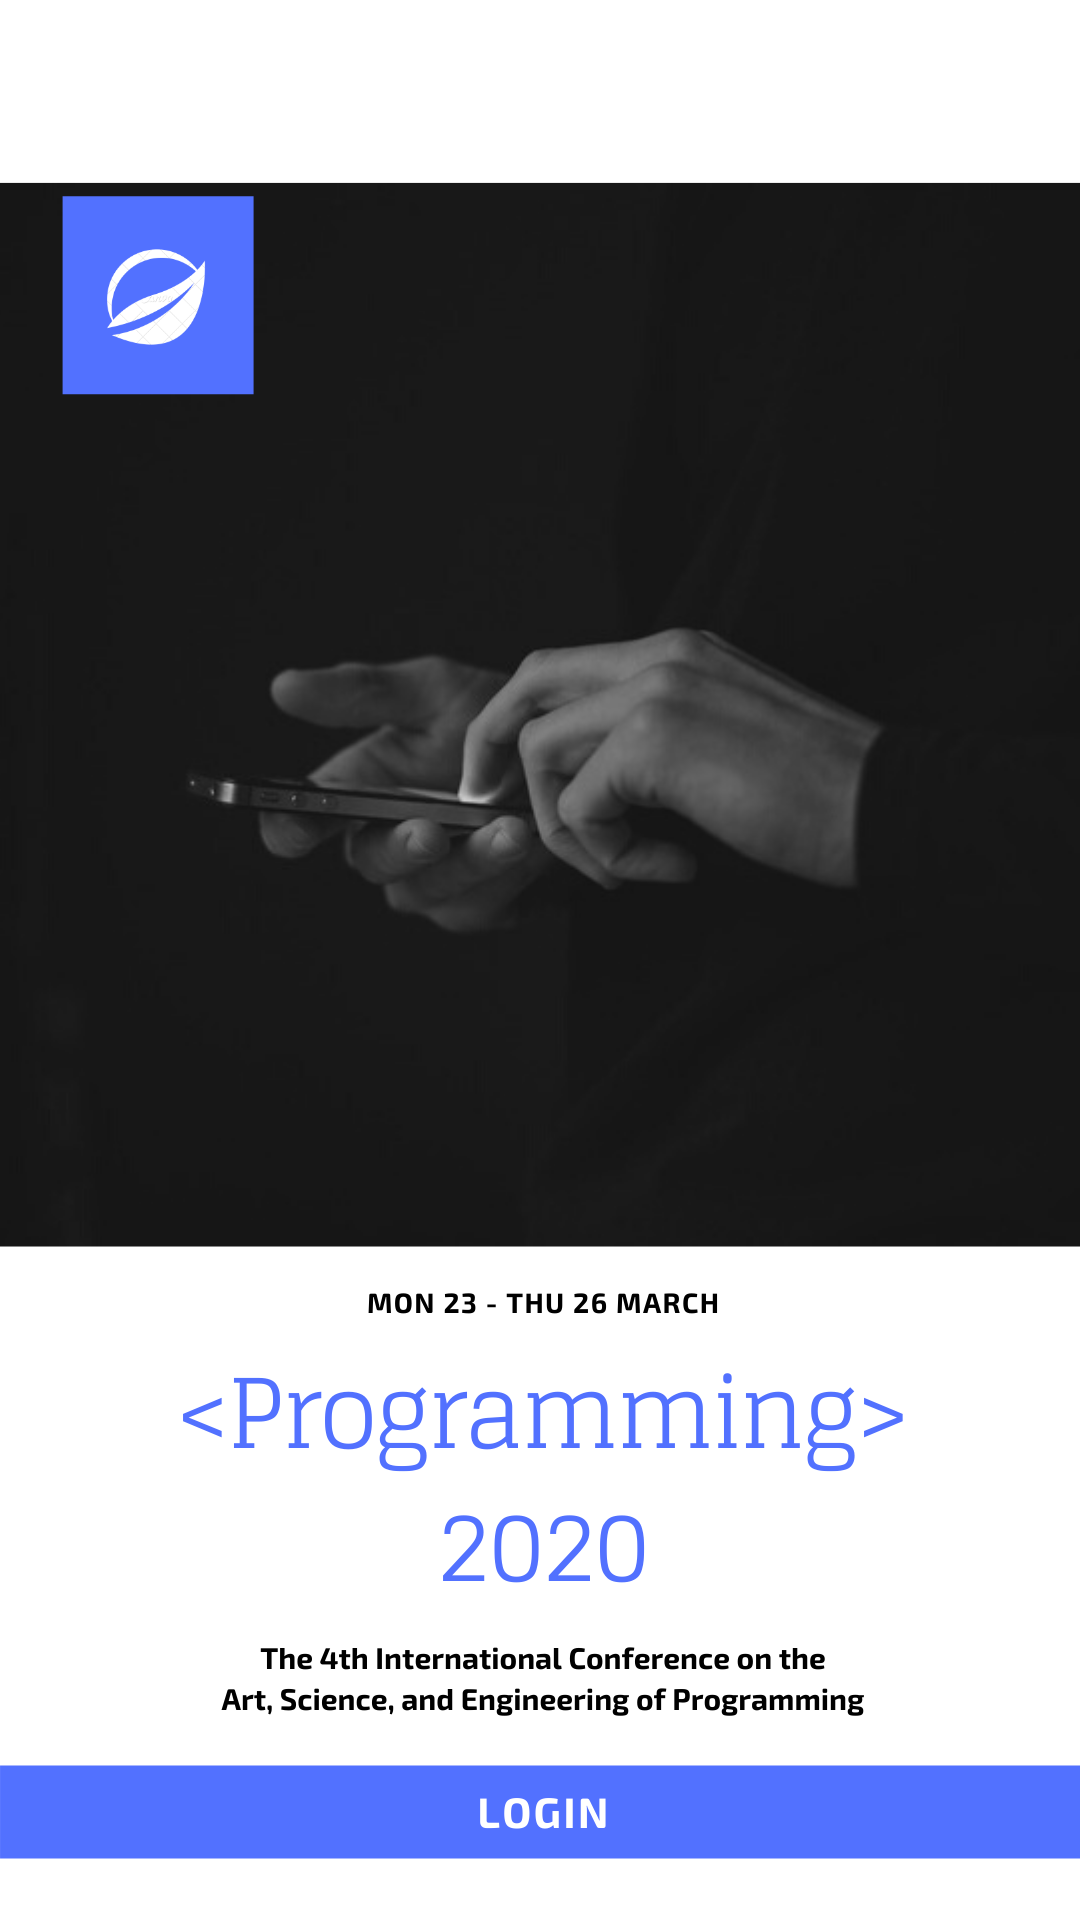
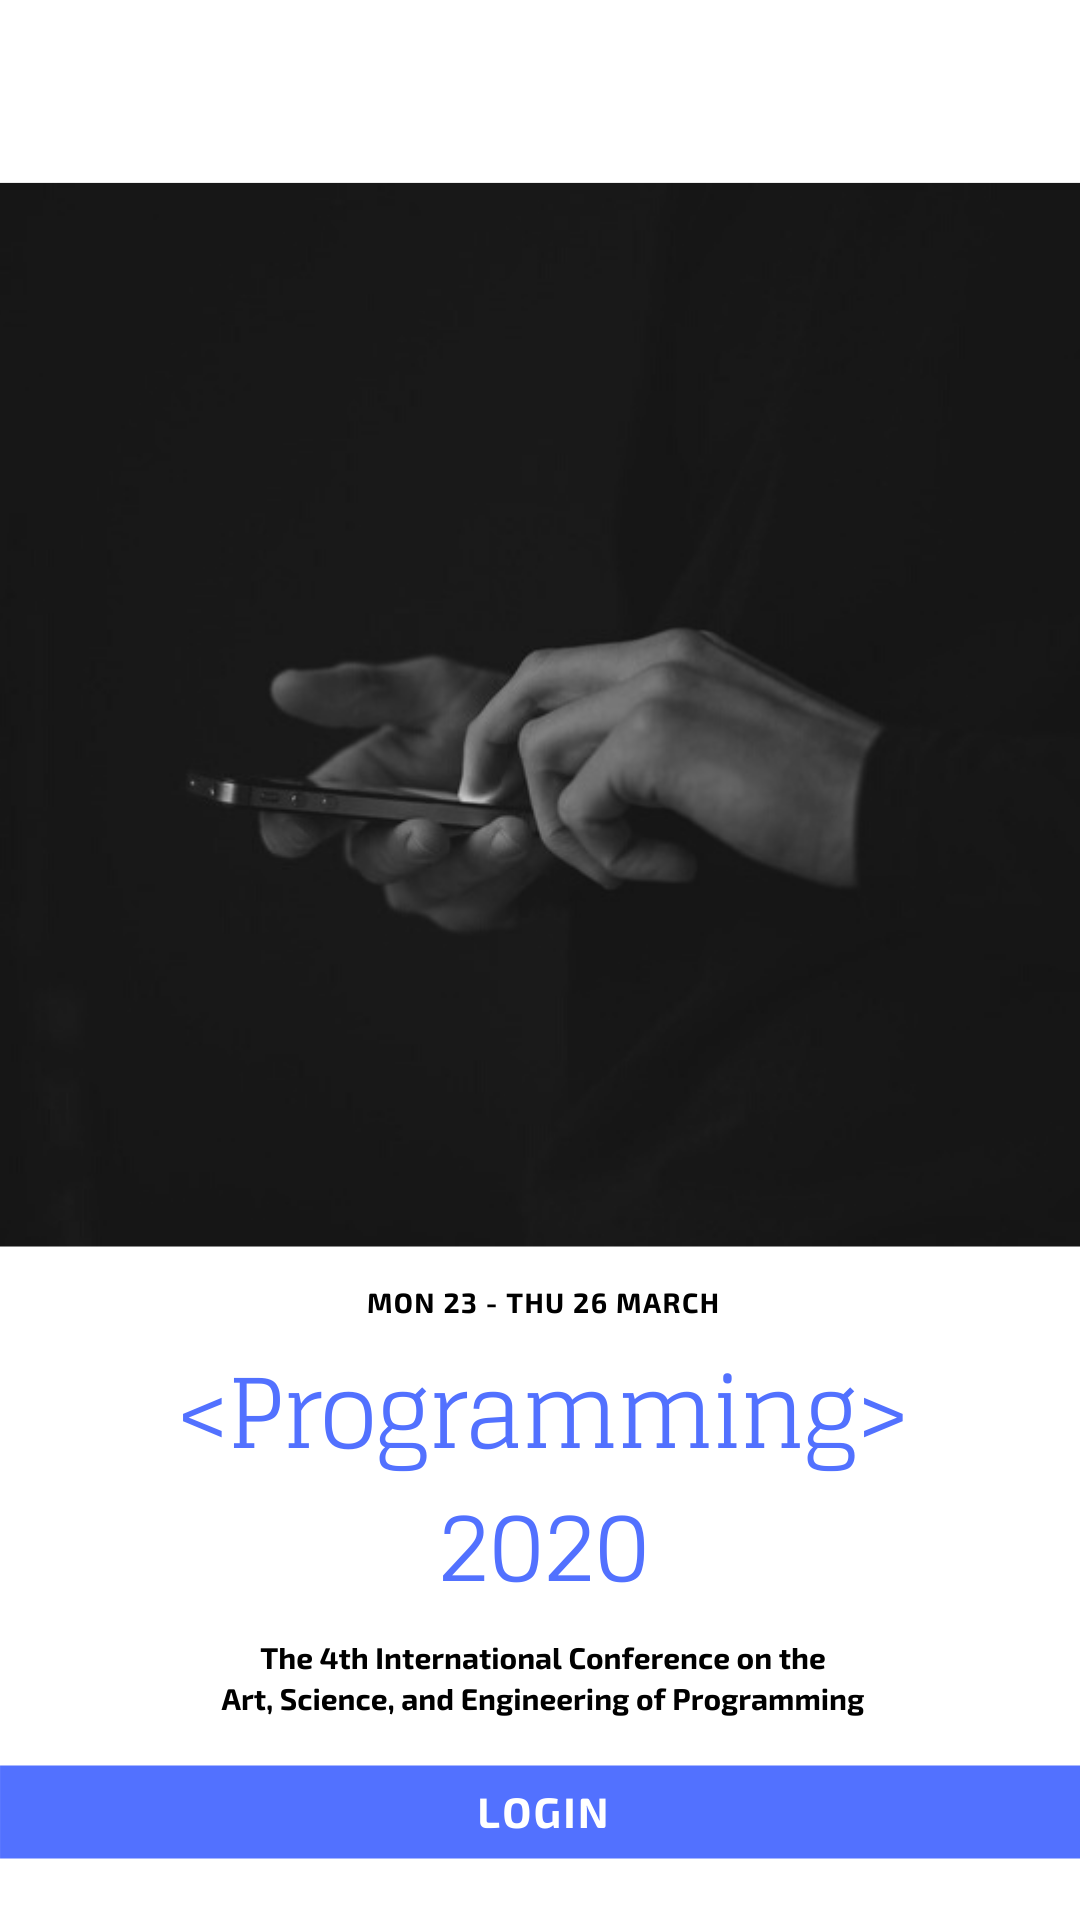
Merge

Changed region(s): [[0.0306, 0.0938, 0.2444, 0.2188]]

diff --git a/App/easyquestions/lib/Objects/registerForm.dart b/App/easyquestions/lib/Objects/registerForm.dart
@@ -1,0 +1,108 @@
+import 'package:easyquestions/Objects/button.dart';
+import 'package:flutter/material.dart';
+
+class RegisterCard extends StatelessWidget {
+  @override
+  Widget build(BuildContext context) {
+    return new Stack(
+        children: <Widget>[
+          new Container(
+            decoration: BoxDecoration(
+              color: Colors.blue,
+            ),
+
+          ),
+
+          new Container(
+            width: double.infinity,
+            height: 350,
+            decoration: BoxDecoration(
+                color: Colors.white.withOpacity(0.8),
+                //borderRadius: BorderRadius.circular(8.0),
+                boxShadow: [
+                  BoxShadow(
+                      color: Colors.black12,
+                      offset: Offset(0.0, 15.0),
+                      blurRadius: 15.0),
+                  BoxShadow(
+                      color: Colors.black12,
+                      offset: Offset(0.0, -10.0),
+                      blurRadius: 10.0),
+                ]
+            ),
+
+            child: Padding(
+              padding: EdgeInsets.only(left: 16.0, right: 16.0, top:16.0),
+              child: Column(
+                crossAxisAlignment: CrossAxisAlignment.start,
+                children: <Widget>[
+                  Text("Email",
+                      style: TextStyle(
+                        fontFamily: "Poppins-Medium",
+                        fontWeight: FontWeight.bold,
+                        fontSize: 23,
+                      )),
+                  TextField(
+                    decoration: InputDecoration(
+                        hintText: "Insert your email here!",
+                        hintStyle: TextStyle(color: Colors.black54, fontSize: 12.0)),
+                  ),
+                  SizedBox(
+                    height: 25,
+                  ),
+                  Text("Password",
+                      style: TextStyle(
+                          fontFamily: "Poppins-Medium",
+                          fontWeight: FontWeight.bold,
+                          fontSize: 23)),
+                  TextField(
+                    obscureText: true,
+                    decoration: InputDecoration(
+                        hintText: "Insert your password here!",
+                        hintStyle: TextStyle(color: Colors.black54, fontSize: 12.0)),
+                  ),
+                  TextField(
+                    obscureText: true,
+                    decoration: InputDecoration(
+                        hintText: "Reenter your password here!",
+                        hintStyle: TextStyle(color: Colors.black54, fontSize: 12.0)),
+                  ),
+                  SizedBox(
+                    height: 30,
+                  ),
+                  Row(
+                    mainAxisAlignment: MainAxisAlignment.end,
+                    children: <Widget>[
+                      Text(
+                        "Forgot Password?",
+                        style: TextStyle(
+                            color: Colors.blue,
+                            fontFamily: "Poppins-Medium",
+                            fontWeight: FontWeight.bold,
+                            fontSize: 15),
+                      )
+                    ],
+                  ),
+                  SizedBox(
+                    height: 30,
+                  ),
+
+
+                RaisedButton(
+                padding: const EdgeInsets.fromLTRB(5.0, 4.0, 5.0, 4.0),
+                textColor: Colors.white,
+                color: Colors.blue,
+                onPressed: ()
+                {
+                  Navigator.pop(context,);
+                },
+                child: new Text("BACK"))
+                  //TODO: REGISTER BUTTON
+                ],
+              ),
+            ),
+          ),
+        ]);
+
+  }
+}

diff --git a/App/easyquestions/lib/Objects/homeScreen.dart b/App/easyquestions/lib/Objects/homeScreen.dart
@@ -1,0 +1,72 @@
+import 'package:flutter/material.dart';
+import 'package:easyquestions/Objects/image_banner.dart';
+
+class homeScreen extends StatelessWidget {
+  Widget build(BuildContext context) {
+    return Scaffold(
+        appBar: AppBar(
+            title: Text('Easy Questions')
+        ),
+        body: Column(
+            mainAxisAlignment: MainAxisAlignment.start,
+            crossAxisAlignment: CrossAxisAlignment.stretch,
+            children: [
+              ImageBanner("assets/images/home.png", (MediaQuery
+                  .of(context)
+                  .size
+                  .height) / 2.5),
+              Center(
+                child: Container(
+                  margin: EdgeInsets.only(top: 20),
+                  child: Column(
+                    children: <Widget>[
+                      Text(
+                          "MON 23 - THU 26 MARCH",
+                          style: TextStyle(
+                            fontWeight: FontWeight.w700,
+                          )
+                      ),
+
+                      Text(
+                        "< Programming >" + "\n 2020",
+                        style: TextStyle(
+                          color: Colors.blue,
+                          fontSize: 35,
+                        ),
+                        textAlign: TextAlign.center,
+                      ),
+                      Text(
+                        "\nThe 4th International Conference on the" +
+                            "\n Art, Science, and Engineering of Programming \n",
+                        style: TextStyle(
+                          fontWeight: FontWeight.w900,
+                        ),
+                        textAlign: TextAlign.center,
+                      ),
+                      RaisedButton(
+                        padding: const EdgeInsets.fromLTRB(5.0, 4.0, 5.0, 4.0),
+                        textColor: Colors.white,
+                        color: Colors.blue,
+                        onPressed: () {
+                          Navigator.pushNamed(context, 'loginScreen');
+                        },
+                        child: new Text("LOGIN"),
+                      ),
+                      RaisedButton(
+                        padding: const EdgeInsets.fromLTRB(5.0, 4.0, 5.0, 4.0),
+                        textColor: Colors.white,
+                        color: Colors.blue,
+                        onPressed: () {
+                          Navigator.pushNamed(context, 'registerScreen');
+                        },
+                        child: new Text("REGISTER"),
+                      )
+                    ],
+                  ),
+                ),
+              ),
+            ]
+        )
+    );
+  }
+}

diff --git a/App/easyquestions/lib/Pages/homepage.dart b/App/easyquestions/lib/Pages/homepage.dart
@@ -1,58 +1,26 @@
+import 'package:easyquestions/Pages/login.dart';
+import 'package:easyquestions/Pages/register.dart';
+import 'package:easyquestions/Objects/homeScreen.dart';
 import 'package:flutter/material.dart';
-import 'package:easyquestions/Objects/image_banner.dart';
-import 'package:easyquestions/Objects/button.dart';
 
 
-class HomePage extends StatelessWidget {
-  Widget build(BuildContext context)
-  {
-    return Scaffold(
-      appBar: AppBar(
-        title: Text('Easy Questions')
-      ),
-      body: Column(
-        mainAxisAlignment: MainAxisAlignment.start,
-        crossAxisAlignment: CrossAxisAlignment.stretch,
-        children: [
-          ImageBanner("assets/images/home.png", (MediaQuery.of(context).size.height)/2.5),
-        Center(
-          child: Container(
-            margin: EdgeInsets.only(top: 20),
-            child: Column(
-              children: <Widget>[
-                Text(
-                  "MON 23 - THU 26 MARCH",
-                  style: TextStyle(
-                    fontWeight: FontWeight.w700,
-                  )
-                ),
 
-                Text(
-                  "< Programming >" + "\n 2020" ,
-                  style: TextStyle(
-                    color: Colors.blue,
-                    fontSize: 35,
-                  ),
-                  textAlign: TextAlign.center,
-                ),
-                Text(
-                    "\nThe 4th International Conference on the" +
-                    "\n Art, Science, and Engineering of Programming \n",
-                    style: TextStyle(
-                      fontWeight: FontWeight.w900,
-                    ),
-                  textAlign: TextAlign.center,
-                ),
-                button("LOGIN", ""),
-                button("REGISTER", ""),
-              ],
-            ),
-          ),
-        ),
-        ]
-      )
-    );
+class HomePage extends StatefulWidget {
+  @override
+  HomePageState createState() => HomePageState();
+}
+
+class HomePageState extends State<HomePage> {
+  @override
+  Widget build(BuildContext context) {
+    return MaterialApp(
+        home: homeScreen(),
+        routes: {
+          'loginScreen': (context) => LoginPage(),
+          'registerScreen': (context) => RegisterPage(),
+        });
   }
+
 }
 
 

diff --git a/App/easyquestions/lib/Pages/register.dart b/App/easyquestions/lib/Pages/register.dart
@@ -1,0 +1,38 @@
+import 'package:easyquestions/Objects/registerForm.dart';
+import 'package:flutter/material.dart';
+import '../Objects/image_banner.dart';
+
+
+
+class RegisterPage extends StatefulWidget{
+  @override
+  _RegisterPageState createState() => new _RegisterPageState();
+}
+
+class _RegisterPageState extends State<RegisterPage>
+{
+
+  @override
+  Widget build(BuildContext context)
+  {
+    return new Scaffold(
+        backgroundColor: Colors.white,
+        body: new Stack(
+          children: <Widget>[
+            new ImageBanner("assets/images/login.png", MediaQuery.of(context).size.height),
+            new Column(
+              mainAxisAlignment: MainAxisAlignment.center,
+              crossAxisAlignment: CrossAxisAlignment.center,
+
+              children: <Widget>[
+                new RegisterCard(),
+              ],
+            )
+
+
+          ],
+        )
+
+    );
+  }
+}

diff --git a/App/easyquestions/lib/Objects/loginForm.dart b/App/easyquestions/lib/Objects/loginForm.dart
@@ -10,7 +10,6 @@ class FormCard extends StatelessWidget {
             decoration: BoxDecoration(
               color: Colors.blue,
     ),
-
     ),
 
           new Container(
@@ -80,7 +79,18 @@ class FormCard extends StatelessWidget {
                 SizedBox(
                   height: 30,
                 ),
-                button("ENTER", ""),
+
+                RaisedButton(
+                  padding: const EdgeInsets.fromLTRB(5.0, 4.0, 5.0, 4.0),
+                  textColor: Colors.white,
+                  color: Colors.blue,
+                  onPressed: ()
+                  {
+                    Navigator.pop(context,);
+                  },
+                  child: new Text("BACK"),
+                  //TODO: ADD button("ENTER", ""),
+                )
               ],
             ),
           ),

diff --git a/App/easyquestions/lib/main.dart b/App/easyquestions/lib/main.dart
@@ -9,7 +9,7 @@ class MyApp extends StatelessWidget {
   @override
   Widget build(BuildContext context) {
     return MaterialApp(
-      home: LoginPage(),
-    );
+        home: HomePage(),
+        );
   }
 }
